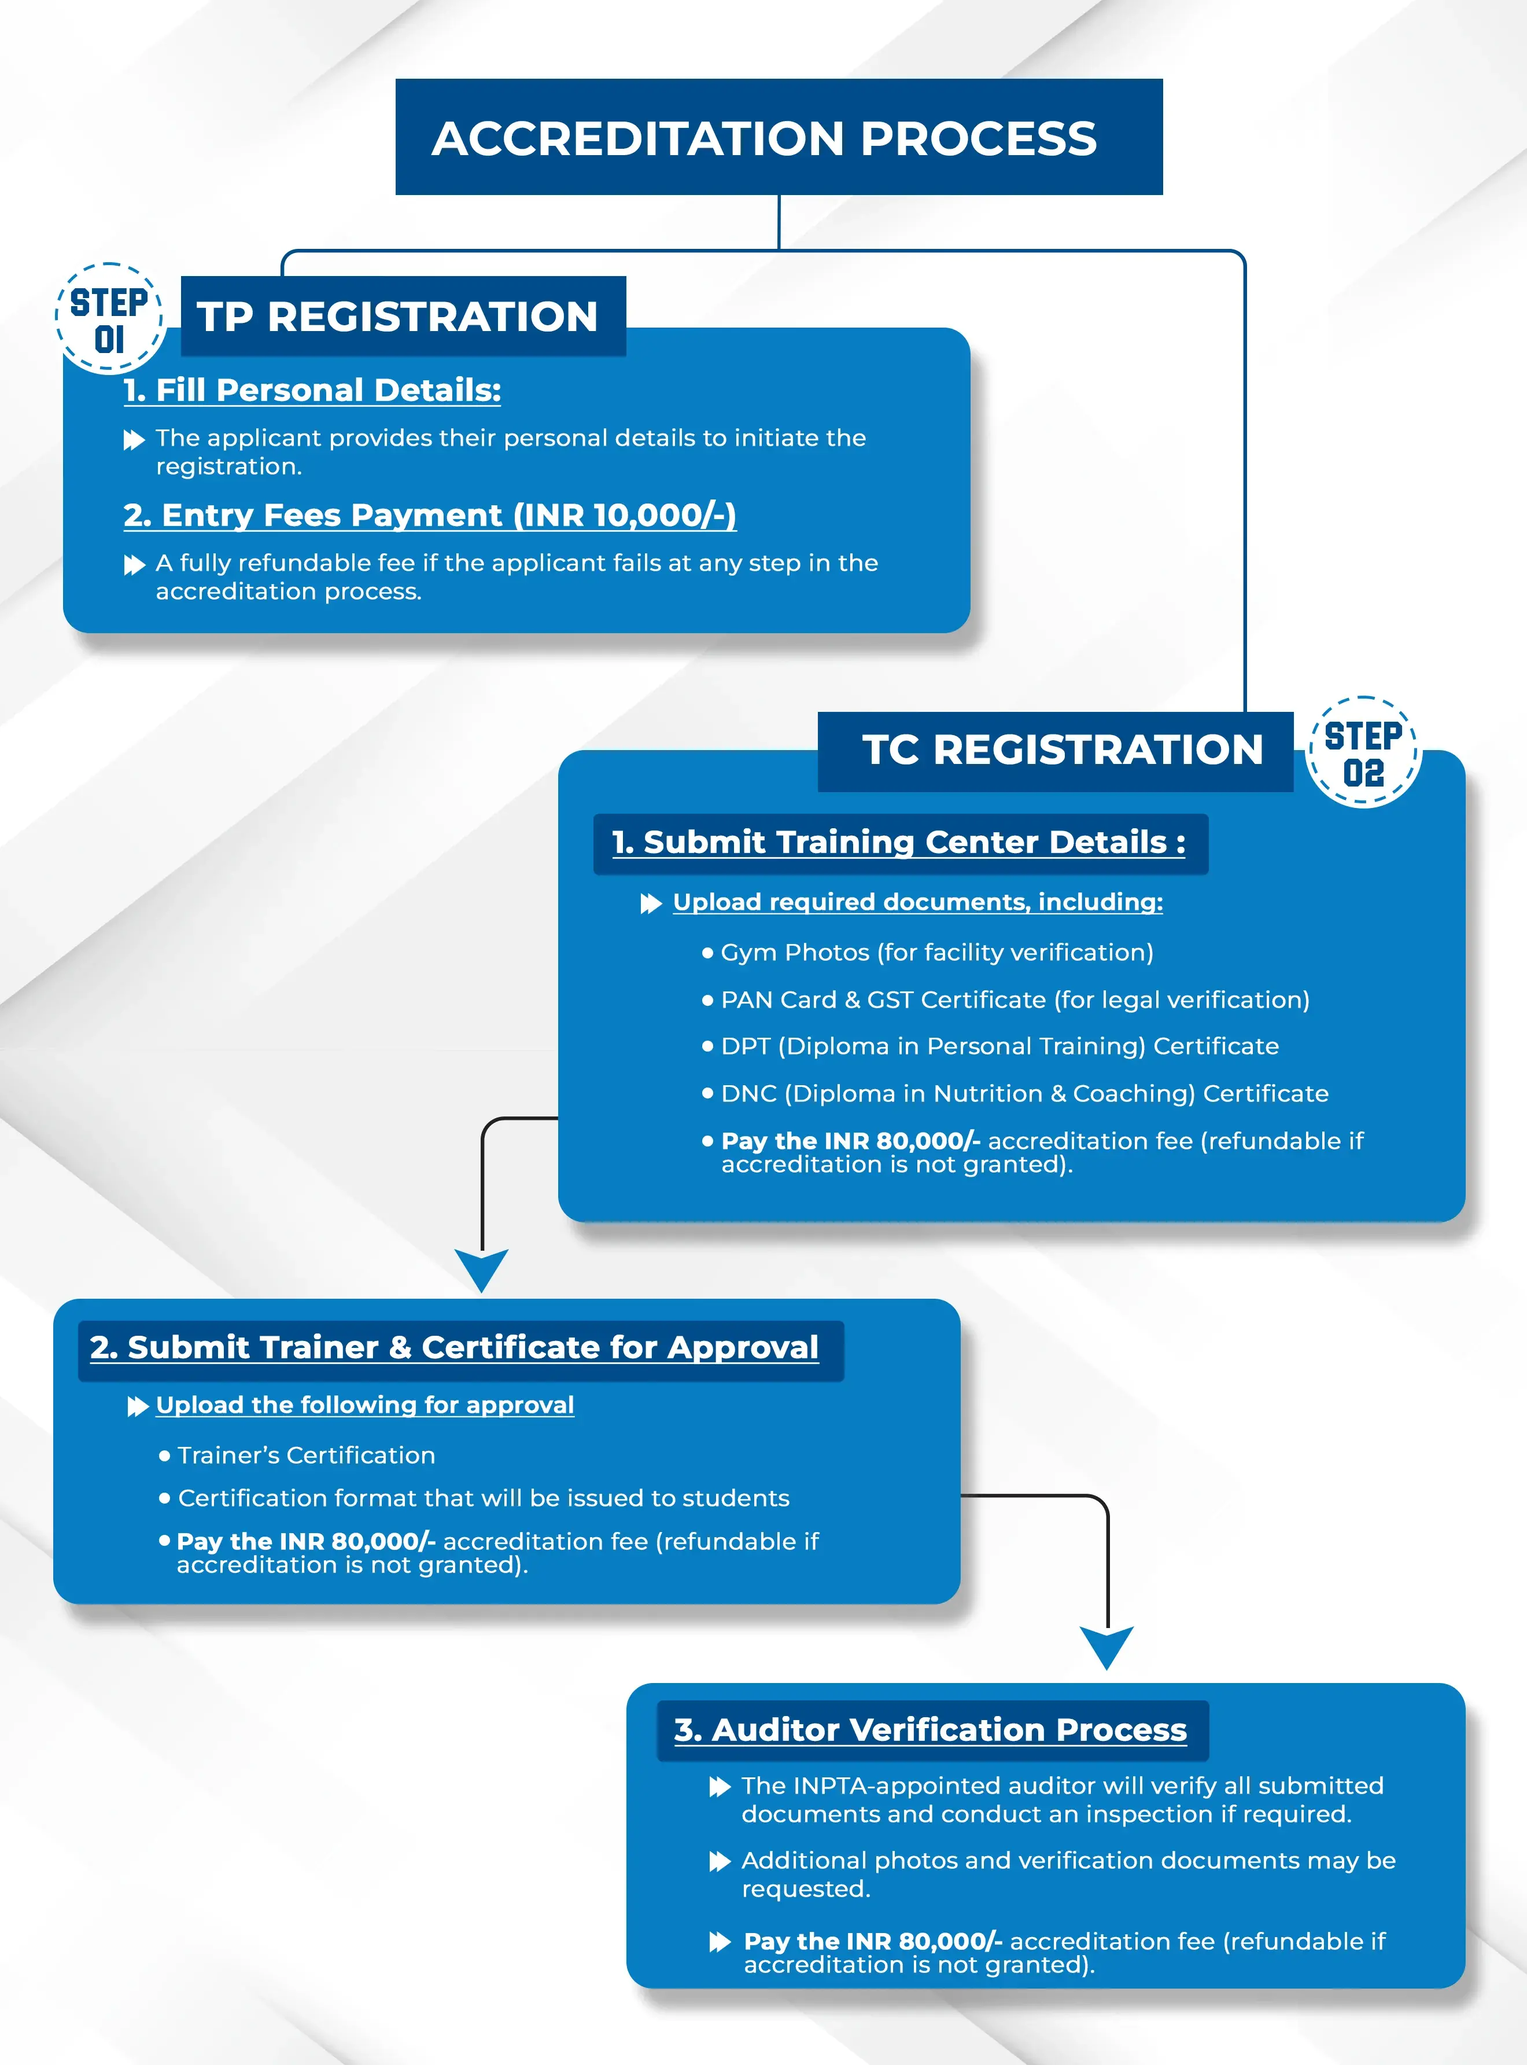
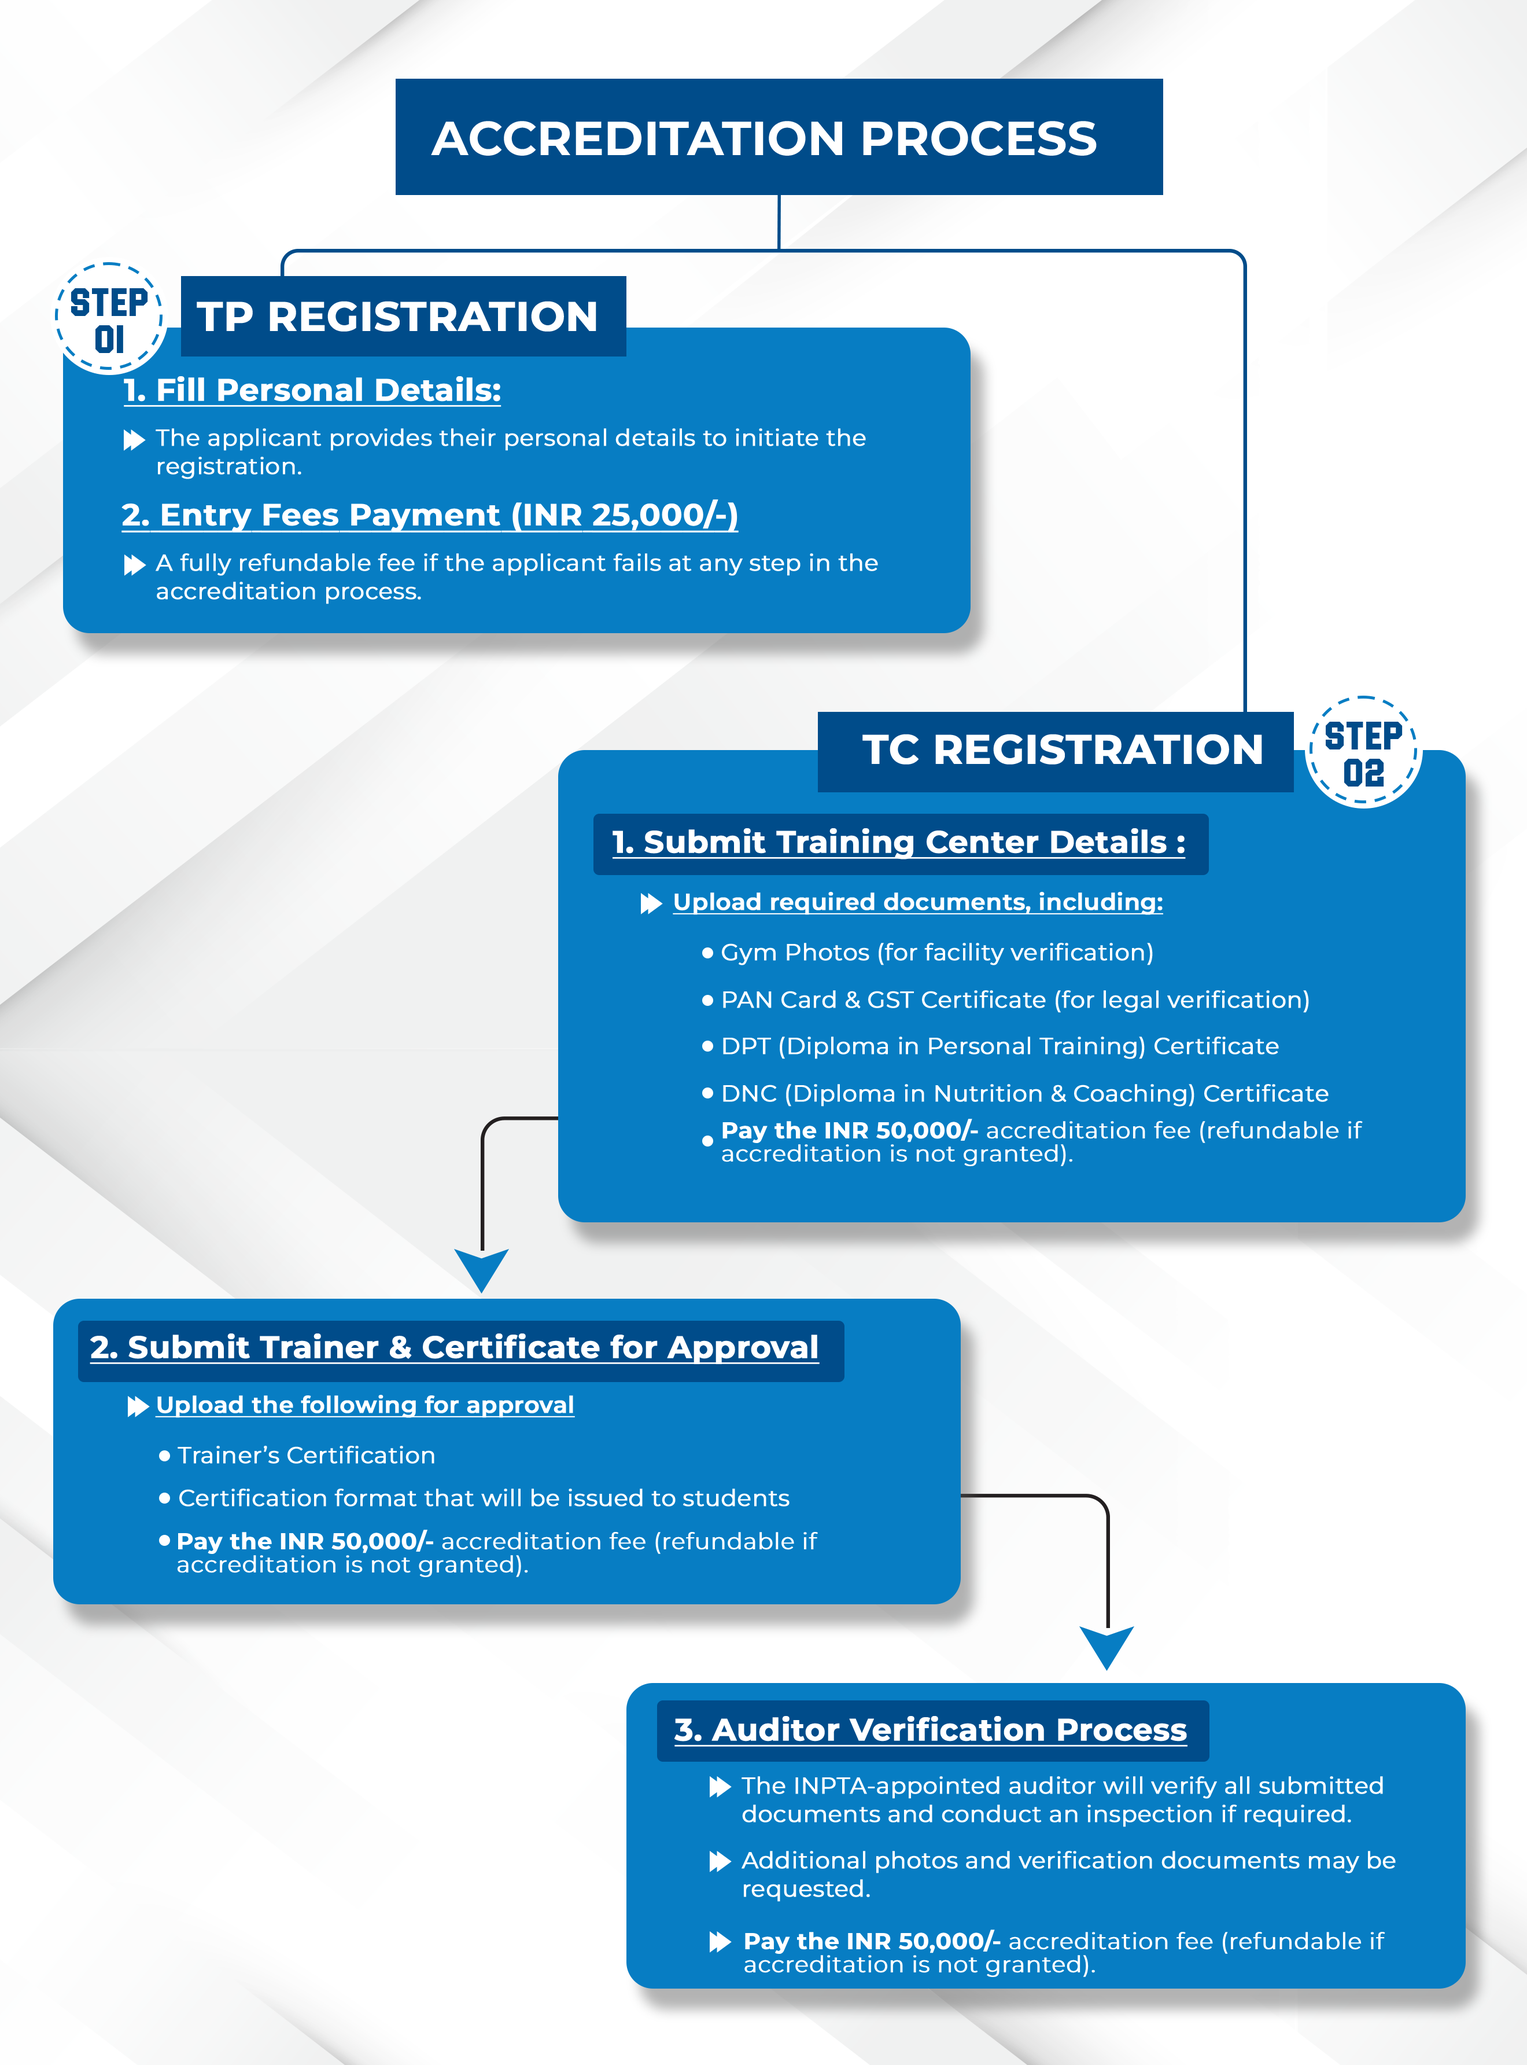
some design change and bug solve

diff --git a/src/pages/training-partner/training-partner.jsx b/src/pages/training-partner/training-partner.jsx
@@ -82,7 +82,7 @@ const TPRegistrationListing = () => {
     contactNumber: "",
     whatsappNumber: "",
     direction_link: "",
-    website: "",
+    // website: "",
     email: "",
   });
   const [personalDetailsData, setPersonalDetailsData] = useState({
@@ -391,7 +391,41 @@ const TPRegistrationListing = () => {
 
   const handleSubmit = async (event) => {
     event.preventDefault();
+
+    // Required fields check
+    const requiredFields = [
+      { value: profilePreview, label: "Profile Photo" },
+      { value: aadhaarPreview, label: "Aadhaar Card" },
+      { value: personalDetailsData.description, label: "Objective" },
+      { value: personalDetailsData.work_experience, label: "Work Experience" },
+      { value: personalDetailsData.qualification, label: "Qualification" },
+      { value: formData.contactNumber, label: "Contact Number" },
+      { value: formData.whatsappNumber, label: "WhatsApp Number" },
+      { value: formData.email, label: "Email" },
+      {
+        value: formData.address_line_1,
+        label: "Office No/Building Name/Office Name",
+      },
+      { value: formData.address_line_2, label: "Road Name/Area/Colony" },
+      { value: formData.city, label: "City" },
+      { value: formData.state, label: "State" },
+      { value: formData.pin_code, label: "Pin Code" },
+      { value: formData.direction_link, label: "Address Link" },
+    ];
+
+    const emptyField = requiredFields.find(
+      (field) => !field.value || field.value.trim() === ""
+    );
+
+    if (emptyField) {
+      toast.error(`Please fill the ${emptyField.label} field.`, {
+        position: toast.POSITION.TOP_RIGHT,
+      });
+      return;
+    }
+
     setIsLoading(true);
+
     try {
       const aadhaarUrl = await uploadAadhaar();
       const profileUrl = await uploadProfile();
@@ -426,10 +460,6 @@ const TPRegistrationListing = () => {
             value: formData.email,
           },
           {
-            contact_type: "website",
-            value: formData.website,
-          },
-          {
             contact_type: "whatsapp",
             value: formData.whatsappNumber,
           },
@@ -457,7 +487,7 @@ const TPRegistrationListing = () => {
     } catch (error) {
       console.error("Error uploading files:", error);
       setIsLoading(false);
-      toast.error(error?.message, {
+      toast.error(error?.message || "Something went wrong!", {
         position: toast.POSITION.TOP_RIGHT,
       });
     }
@@ -736,7 +766,7 @@ const TPRegistrationListing = () => {
                                     />
                                   </div>
                                 </div>
-                                <div className="col-xl-4 col-lg-4 col-md-12 col-sm-12">
+                                {/* <div className="col-xl-4 col-lg-4 col-md-12 col-sm-12">
                                   <div className="form-group">
                                     <label className="mb-1">Website</label>
                                     <input
@@ -752,7 +782,7 @@ const TPRegistrationListing = () => {
                                       }
                                     />
                                   </div>
-                                </div>
+                                </div> */}
                                 <div className="col-xl-4 col-lg-4 col-md-12 col-sm-12">
                                   <div className="form-group">
                                     <label className="mb-1">

diff --git a/src/components/Footer.jsx b/src/components/Footer.jsx
@@ -33,31 +33,48 @@ function Footer() {
             <div className="col-lg-4">
               <h4 className="text-white mb-3">Contact</h4>
               <p className="mb-2">
-                <i className="fa fa-map-marker-alt me-3"></i>2, Gomzi, Near Sumul dairy road, Katargam, Surat-395004
+                <i className="fa fa-map-marker-alt me-3"></i>2, Gomzi, Near
+                Sumul dairy road, Katargam, Surat-395004
               </p>
               <p className="mb-2">
                 <i className="fa fa-phone-alt me-3"></i>+91 63540 51487
               </p>
               <p className="mb-2">
-                <i className="fa fa-envelope me-3"></i>fitnesswithgomzi@gmail.com
+                <i className="fa fa-envelope me-3"></i>
+                fitnesswithgomzi@gmail.com
               </p>
             </div>
             <div className="col-lg-4">
               <h4 className="text-white mb-3">Links</h4>
               <div className="d-flex pt-2">
-                <Link className="btn btn-outline-light btn-social" to="https://api.whatsapp.com/send?phone=6354051487&text=Hello">
+                <Link
+                  className="btn btn-outline-light btn-social"
+                  to="https://api.whatsapp.com/send?phone=6354051487&text=Hello, I want to know more about INPTA accreditation service."
+                >
                   <i className="fab fa-whatsapp"></i>
                 </Link>
-                <Link className="btn btn-outline-light btn-social" to="https://www.instagram.com/fgiit.surat/">
+                <Link
+                  className="btn btn-outline-light btn-social"
+                  to="https://www.instagram.com/fgiit.surat/"
+                >
                   <i className="fab fa-instagram"></i>
                 </Link>
-                <Link className="btn btn-outline-light btn-social" to="https://www.facebook.com/gajani2">
+                <Link
+                  className="btn btn-outline-light btn-social"
+                  to="https://www.facebook.com/gajani2"
+                >
                   <i className="fab fa-facebook-f"></i>
                 </Link>
-                <Link className="btn btn-outline-light btn-social" to="https://www.youtube.com/@fgiitsurat5121">
+                <Link
+                  className="btn btn-outline-light btn-social"
+                  to="https://www.youtube.com/@fgiitsurat5121"
+                >
                   <i className="fab fa-youtube"></i>
                 </Link>
-                <Link className="btn btn-outline-light btn-social" to="https://www.linkedin.com/in/gautam-jani-561a50161">
+                <Link
+                  className="btn btn-outline-light btn-social"
+                  to="https://www.linkedin.com/in/gautam-jani-561a50161"
+                >
                   <i className="fab fa-linkedin-in"></i>
                 </Link>
               </div>

diff --git a/src/pages/training-center/submit-certificate.jsx b/src/pages/training-center/submit-certificate.jsx
@@ -286,7 +286,7 @@ const TPRegistrationSubmitCertificate = () => {
                                           </div>
                                           <div className="d-inline-block p-0 text-right">
                                             <p className="m-0 f-rob-med f-16">
-                                              ₹ {80000 || 0} /-
+                                              ₹ {50000 || 0} /-
                                             </p>
                                           </div>
                                         </div>
@@ -318,7 +318,7 @@ const TPRegistrationSubmitCertificate = () => {
                                           <div className="d-inline-block p-0 text-right">
                                             <p className="m-0 f-rob-med f-16">
                                               <span className="f-rob-med f-16 text-green text-uppercase ml-1">
-                                                ₹ {80000 || 0} /-
+                                                ₹ {50000 || 0} /-
                                               </span>
                                             </p>
                                           </div>
@@ -335,7 +335,7 @@ const TPRegistrationSubmitCertificate = () => {
                                       </div>
                                       <div className="d-inline-block">
                                         <p className="m-0 f-rob-med f-16">
-                                          ₹ {80000 || 0} /-
+                                          ₹ {50000 || 0} /-
                                         </p>
                                       </div>
                                     </div>

diff --git a/src/pages/training-center/training-center.jsx b/src/pages/training-center/training-center.jsx
@@ -1940,7 +1940,7 @@ const TPRegistrationListing = () => {
                                           </div>
                                           <div className="d-inline-block p-0 text-right">
                                             <p className="m-0 f-rob-med f-16">
-                                              ₹ {80000 || 0} /-
+                                              ₹ {50000 || 0} /-
                                             </p>
                                           </div>
                                         </div>
@@ -1972,7 +1972,7 @@ const TPRegistrationListing = () => {
                                           <div className="d-inline-block p-0 text-right">
                                             <p className="m-0 f-rob-med f-16">
                                               <span className="f-rob-med f-16 text-green text-uppercase ml-1">
-                                                ₹ {80000 || 0} /-
+                                                ₹ {50000 || 0} /-
                                               </span>
                                             </p>
                                           </div>
@@ -1989,7 +1989,7 @@ const TPRegistrationListing = () => {
                                       </div>
                                       <div className="d-inline-block">
                                         <p className="m-0 f-rob-med f-16">
-                                          ₹ {80000 || 0} /-
+                                          ₹ {50000 || 0} /-
                                         </p>
                                       </div>
                                     </div>

diff --git a/src/pages/training-center/auditor-verification.jsx b/src/pages/training-center/auditor-verification.jsx
@@ -1862,7 +1862,7 @@ const AuditorVerification = () => {
                                           </div>
                                           <div className="d-inline-block p-0 text-right">
                                             <p className="m-0 f-rob-med f-16">
-                                              ₹ {80000 || 0} /-
+                                              ₹ {50000 || 0} /-
                                             </p>
                                           </div>
                                         </div>
@@ -1894,7 +1894,7 @@ const AuditorVerification = () => {
                                           <div className="d-inline-block p-0 text-right">
                                             <p className="m-0 f-rob-med f-16">
                                               <span className="f-rob-med f-16 text-green text-uppercase ml-1">
-                                                ₹ {80000 || 0} /-
+                                                ₹ {50000 || 0} /-
                                               </span>
                                             </p>
                                           </div>
@@ -1911,7 +1911,7 @@ const AuditorVerification = () => {
                                       </div>
                                       <div className="d-inline-block">
                                         <p className="m-0 f-rob-med f-16">
-                                          ₹ {80000 || 0} /-
+                                          ₹ {50000 || 0} /-
                                         </p>
                                       </div>
                                     </div>

diff --git a/src/pages/training-partner/training-partner-payment.jsx b/src/pages/training-partner/training-partner-payment.jsx
@@ -136,7 +136,7 @@ const TPRegistrationPayment = () => {
                                           </div>
                                           <div className="d-inline-block p-0 text-right">
                                             <p className="m-0 f-rob-med f-16">
-                                              ₹ {10000 || 0} /-
+                                              ₹ {25000 || 0} /-
                                             </p>
                                           </div>
                                         </div>
@@ -168,7 +168,7 @@ const TPRegistrationPayment = () => {
                                           <div className="d-inline-block p-0 text-right">
                                             <p className="m-0 f-rob-med f-16">
                                               <span className="f-rob-med f-16 text-green text-uppercase ml-1">
-                                                ₹ {10000 || 0} /-
+                                                ₹ {25000 || 0} /-
                                               </span>
                                             </p>
                                           </div>
@@ -185,7 +185,7 @@ const TPRegistrationPayment = () => {
                                       </div>
                                       <div className="d-inline-block">
                                         <p className="m-0 f-rob-med f-16">
-                                          ₹ {10000 || 0} /-
+                                          ₹ {25000 || 0} /-
                                         </p>
                                       </div>
                                     </div>

diff --git a/src/pages/registration-page.jsx b/src/pages/registration-page.jsx
@@ -260,7 +260,7 @@ const RegistrationPage = () => {
                                   </div>
                                   <div>
                                     <i className="fa fa-arrow-right text-primary me-1"></i>{" "}
-                                    80000 fees
+                                    50000 fees
                                   </div>
                                 </p>
                                 <p className="mb-2">
@@ -271,7 +271,7 @@ const RegistrationPage = () => {
                                   </div>
                                   <div>
                                     <i className="fa fa-arrow-right text-primary me-1"></i>{" "}
-                                    80000 fees
+                                    50000 fees
                                   </div>
                                 </p>
 
@@ -279,7 +279,7 @@ const RegistrationPage = () => {
                                   3. Auditor Verification
                                   <div>
                                     <i className="fa fa-arrow-right text-primary me-1"></i>{" "}
-                                    80000 fees
+                                    50000 fees
                                   </div>
                                 </p>
                               </div>
